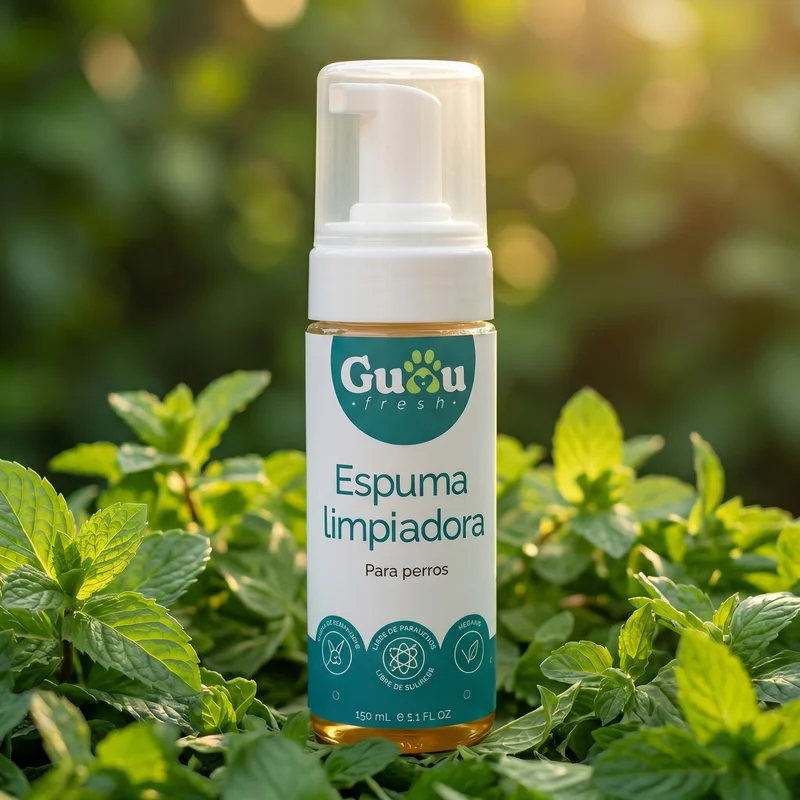
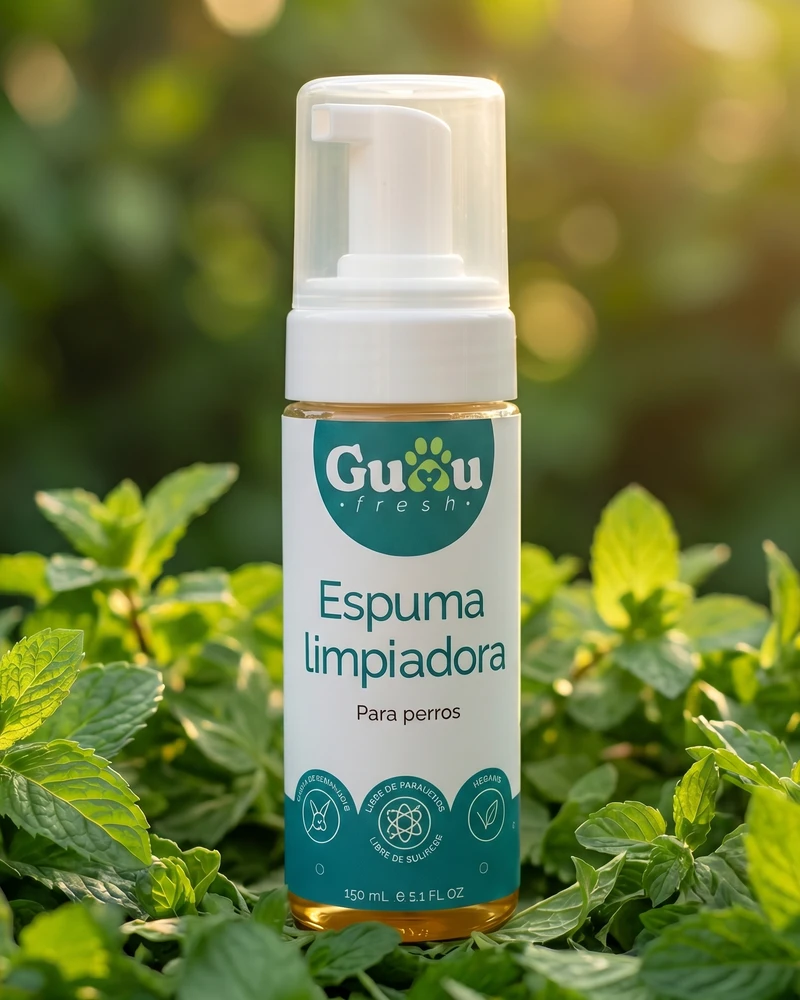
feat(product): optimize 50ml image and fix cart item cache

diff --git a/src/components/guaufresh/Product.tsx b/src/components/guaufresh/Product.tsx
@@ -40,7 +40,7 @@ const FALLBACK_PRODUCTS: ProductData[] = [
     name: "Guau Fresh - Espuma Limpiadora 50mL",
     description: "Espuma limpiadora en seco para perros y gatos con proteínas vegetales y extractos naturales. Ideal para patitas y hocico.",
     price: 38000,
-    images: [baseHref("/product-foam.png")],
+    images: [baseHref("/product-foam-50ml.webp?v=1")],
     stock: 100,
     category: "espuma"
   },
@@ -104,9 +104,15 @@ export function Product() {
       if (fetchError) throw fetchError
 
       if (data && data.length > 0) {
-        setProducts(data)
-        if (!data.find(p => p.id === selectedSize)) {
-          setSelectedSize(data[1]?.id || data[0].id)
+        const mappedData = data.map((product) => ({
+          ...product,
+          images: product.id.includes("150ml")
+            ? [baseHref("/product-foam-150ml.webp?v=1")]
+            : [baseHref("/product-foam-50ml.webp?v=1")]
+        }))
+        setProducts(mappedData)
+        if (!mappedData.find(p => p.id === selectedSize)) {
+          setSelectedSize(mappedData[1]?.id || mappedData[0].id)
         }
       }
     } catch (err: any) {
@@ -138,7 +144,7 @@ export function Product() {
           id: currentProduct.id,
           name: currentProduct.name,
           price: currentProduct.price,
-          image: baseHref("/product-foam.png"),
+          image: baseHref("/product-foam-50ml.webp?v=1"),
         })
       }
       setIsAdding(false)
@@ -160,7 +166,7 @@ export function Product() {
               whileInView={{ opacity: 1, scale: 1 }}
               viewport={{ once: true }}
               transition={{ duration: 0.6, type: "spring" }}
-              className="relative w-full max-w-[400px] aspect-[4/5] rounded-[2.5rem] bg-gradient-to-tr from-primary/10 via-secondary/10 to-accent/20 p-8 flex items-center justify-center border border-primary/10 shadow-md group"
+              className="relative w-full max-w-[400px] aspect-[4/5] rounded-[2.5rem] bg-gradient-to-tr from-primary/10 via-secondary/10 to-accent/20 p-4 sm:p-6 flex items-center justify-center border border-primary/10 shadow-md group"
             >
               <div className="absolute top-6 left-6 inline-flex rounded-full bg-secondary/10 border border-secondary/20 px-3.5 py-1.5 text-xs font-semibold text-primary backdrop-blur-sm">
                 Envase Ecológico
@@ -173,9 +179,9 @@ export function Product() {
                 animate={{ opacity: 1, y: 0 }}
                 transition={{ duration: 0.4 }}
                 whileHover={{ scale: 1.05, rotate: -2 }}
-                src={currentProduct?.images[0] || baseHref("/product-foam.png")}
+                src={currentProduct?.images[0] || baseHref("/product-foam-50ml.webp?v=1")}
                 alt={currentProduct?.name || "Guau Fresh Espuma Limpiadora"}
-                className="h-[80%] w-auto object-contain drop-shadow-[0_25px_35px_rgba(0,167,159,0.25)] transition-all cursor-grab active:cursor-grabbing will-change-gpu"
+                className="h-[92%] sm:h-[95%] w-auto object-contain drop-shadow-[0_25px_35px_rgba(0,167,159,0.25)] transition-all cursor-grab active:cursor-grabbing will-change-gpu"
               />
 
               {/* Aura de fondo */}

diff --git a/src/components/guaufresh/CartContent.tsx b/src/components/guaufresh/CartContent.tsx
@@ -43,7 +43,11 @@ export function CartContent() {
                 <div className="flex gap-4">
                   <div className="h-24 w-24 flex-shrink-0 overflow-hidden rounded-lg bg-muted">
                     <img
-                      src={item.image}
+                      src={
+                        item.id.includes("150ml") 
+                          ? baseHref("/product-foam-150ml.webp?v=1") 
+                          : baseHref("/product-foam-50ml.webp?v=1")
+                      }
                       alt={item.name}
                       className="h-full w-full object-cover"
                     />

diff --git a/src/components/guaufresh/CartSheet.tsx b/src/components/guaufresh/CartSheet.tsx
@@ -115,7 +115,11 @@ export function CartSheet() {
                       <div className="flex gap-4 items-center">
                         <div className="relative h-16 w-16 sm:h-20 sm:w-20 flex-shrink-0 overflow-hidden rounded-2xl bg-muted border border-border">
                           <img
-                            src={item.image}
+                            src={
+                              item.id.includes("150ml") 
+                                ? baseHref("/product-foam-150ml.webp?v=1") 
+                                : baseHref("/product-foam-50ml.webp?v=1")
+                            }
                             alt={item.name}
                             className="w-full h-full object-cover"
                           />

diff --git a/src/components/guaufresh/PetCalculator.tsx b/src/components/guaufresh/PetCalculator.tsx
@@ -74,7 +74,7 @@ export function PetCalculator() {
         price: activeProduct.price,
         image: activeProduct.id === "guaufresh-150ml" 
           ? baseHref("/product-foam-150ml.webp?v=1") 
-          : baseHref("/product-foam.png"),
+          : baseHref("/product-foam-50ml.webp?v=1"),
       })
       setIsAdding(false)
       setIsOpen(true)